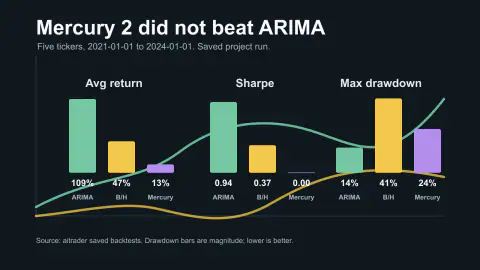
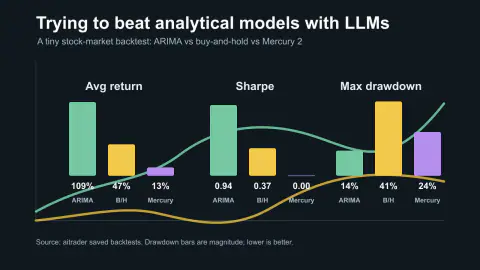
Revise aitrader post framing

diff --git a/src/content/posts/mercury-2-did-not-beat-arima.md b/src/content/posts/mercury-2-did-not-beat-arima.md
@@ -1,22 +1,27 @@
 ---
-title: "Mercury 2 did not beat ARIMA"
-description: "I tried to improve a FINSABER-style ARIMA baseline with a Mercury 2 neuro-symbolic trading agent. The saved run made the old baseline look better."
+title: "Trying to beat analytical models with LLMs in the stock market"
+description: "A trading-agent experiment that started with FINSABER, wrapped ARIMA-style signals in Mercury 2, and ended with the analytical baseline winning."
 published: "2026-08-23T16:00:00.000Z"
+updated: "2026-08-23T16:29:33.000Z"
 tags: [Projects, AI, Trading, Research]
 draft: false
 featured: false
 hero:
   src: "/images/aitrader-mercury-arima/metrics.webp"
-  alt: "Bar chart comparing average return, Sharpe ratio, and drawdown for ARIMA, buy and hold, and Mercury 2"
+  alt: "Bar chart comparing average return, Sharpe ratio, and drawdown for ARIMA, buy and hold, and a Mercury 2 LLM strategy"
   width: 1600
   height: 900
 project: "aitrader"
 disclosure: "AI-Assisted"
 ---
 
-The interesting result is not that the diffusion model won. It did not.
+The stock-market version of “can an LLM reason better?” is nastier than the demo version.
 
-The saved `aitrader` run compared a FINSABER-style ARIMA baseline, buy and hold, and a Mercury 2 neuro-symbolic strategy over five tickers from 2021-01-01 to 2024-01-01: AAPL, MSFT, GOOGL, AMZN, and JPM. The baseline averaged 109.40% total return, 0.937 Sharpe, and 14.04% max drawdown. The Mercury 2 strategy averaged 12.77% total return, 0.003 Sharpe, and 24.41% max drawdown. Buy and hold landed between them on return and below both on drawdown.
+A language model can sound plausible about a chart. A backtest asks a colder question: if the model had made decisions one day at a time, using only information available up to that day, would the portfolio have made more money with less risk than a simpler analytical strategy?
+
+In this experiment, the answer was no.
+
+The saved `aitrader` run compared three strategies over five stocks from 2021-01-01 to 2024-01-01: AAPL, MSFT, GOOGL, AMZN, and JPM. The analytical baseline used ARIMA, a classical time-series forecasting model. The LLM strategy used Mercury 2, a diffusion language model from Inception Labs, but gave it ARIMA-derived state plus technical indicators at each decision step. Buy and hold was there as the boring market-exposure check.
 
 | Strategy | Avg total return | Avg Sharpe | Avg max drawdown |
 | --- | ---: | ---: | ---: |
@@ -28,23 +33,31 @@ So did the project finish? Yes, in the useful sense: it produced a saved histori
 
 This is an engineering note about a historical backtest, not investment advice.
 
-## The paper that started it
+## The pieces
 
-This started with the FINSABER paper, [“Can LLM-based Financial Investing Strategies Outperform the Market in Long Run?”](https://arxiv.org/abs/2505.07078), by Weixian Waylon Li, Hyeonjun Kim, Mihai Cucuringu, and Tiejun Ma. The paper’s claim was exactly the kind of claim that makes a small trading-agent project feel both tempting and dangerous: many LLM investing evaluations look good because they are too narrow, too short, or too vulnerable to survivorship and data-snooping bias.
+ARIMA stands for autoregressive integrated moving average. The plain-English version: it is a statistical model that looks at a time series, tries to separate trend-like structure from noise, and forecasts what comes next from past values and past errors. The implementation here used `statsmodels.tsa.arima.model.ARIMA`; the statsmodels docs describe it as the [basic interface for ARIMA-type models](https://www.statsmodels.org/stable/generated/statsmodels.tsa.arima.model.ARIMA.html).
 
-The authors built [FINSABER](https://github.com/waylonli/FINSABER) to make that harder to hide. The project frames itself as a backtesting framework for traditional technical strategies, machine learning strategies, and LLM agents. Its current docs describe [FINSABER-2](https://waylonli.github.io/FINSABER/) as a package-oriented framework with explicit execution timing, price adjustment, slippage, liquidity, structured results, and LLM cost accounting. The accompanying [FINSABER V2 dataset](https://huggingface.co/datasets/finsaber-team/FINSABER-V2-Data) is broad enough to make a five-stock toy experiment feel a little embarrassed: years of S&P 500 price data, millions of news rows, SEC filings, and metadata.
+An LLM is doing something different. It is not fitting a small, named statistical model to a price series. It is reading a structured prompt and producing a decision. That makes it flexible, but also suspicious. It can invent confidence. It can overreact to stale context. It can sound better than it trades.
 
-That paper made the challenge clear. If LLM strategies often lose their shine under wider, longer, stricter evaluation, maybe the model should not be asked to invent the whole strategy. Give it a mechanical state: ARIMA direction, MACD, RSI, ATR. Let a fast reasoning model decide whether the state is actionable. Keep the deterministic parts deterministic.
+Mercury 2 is the LLM I used. It comes from Inception Labs, which describes Mercury 2 as a [diffusion language model](https://www.inceptionlabs.ai/blog/introducing-mercury-2). Diffusion is more familiar from image generation, but the relevant claim for this project is not aesthetics; it is speed. Inception Labs says Mercury 2 uses parallel refinement instead of standard left-to-right token generation, advertises high throughput, low token cost, long context, tool use, and schema-aligned JSON. The [Inception API](https://www.inceptionlabs.ai/blog/introducing-inception-api) also exposes an OpenAI-compatible interface, so it was straightforward to put Mercury 2 behind a normal trading-agent call.
 
-Mercury 2 was attractive for that role because Inception Labs presents it as a [diffusion language model](https://www.inceptionlabs.ai/blog/introducing-mercury-2), using parallel refinement instead of standard left-to-right token generation. The product post advertises very high throughput, low token cost, a 128K context window, native tool use, and schema-aligned JSON. The [Inception API](https://www.inceptionlabs.ai/blog/introducing-inception-api) also uses an OpenAI-compatible interface, which made it easy to plug into a normal agent loop.
+FINSABER is the research context. The paper [“Can LLM-based Financial Investing Strategies Outperform the Market in Long Run?”](https://arxiv.org/abs/2505.07078), by Weixian Waylon Li, Hyeonjun Kim, Mihai Cucuringu, and Tiejun Ma, argues that many LLM investing evaluations look good because they are too narrow, too short, or too vulnerable to survivorship and data-snooping bias. The authors built [FINSABER](https://github.com/waylonli/FINSABER) to make that harder to hide. Its current docs describe [FINSABER-2](https://waylonli.github.io/FINSABER/) as a package-oriented framework with explicit execution timing, price adjustment, slippage, liquidity, structured results, and LLM cost accounting.
 
-That was the bet: maybe a fast diffusion LLM, fed with ARIMA and technical indicators at every decision point, could improve on a plain ARIMA baseline without becoming a vibes machine in a suit.
+That was the setup. A classical model makes a forecast. A language model reads the forecast plus other indicators. A backtest decides whether the extra reasoning helped or just added theatrical machinery.
+
+## Why try it
+
+The naive version of an LLM trading system is: send the model market context and ask whether to buy, sell, or hold. That is too easy to fool yourself with. The prompt can smuggle in future information. The benchmark can be too small. The agent can look intelligent while mostly reducing exposure.
+
+The less naive version is neuro-symbolic: let deterministic code compute a state, then ask the model to reason over that state. In `aitrader`, the state included ARIMA direction, MACD, RSI, and ATR. The model did not need to hallucinate those indicators from prose. It received them as structured inputs and returned a trading decision.
+
+That was my attempt to outdo the sober FINSABER lesson instead of denying it. If LLM-only strategies degrade under stricter evaluation, maybe an LLM constrained by analytical signals could still add something.
 
 ## What I built
 
 The project became a neuro-symbolic trading adapter around FINSABER. The strategy gathered historical price data up to the current date, calculated heuristic state, sent that state to Mercury 2, and converted the model decision into buy, sell, or hold actions. The baseline script used `yfinance` to download historical prices; the library documents itself as a way to [download market data from Yahoo Finance’s API](https://ranaroussi.github.io/yfinance/), and the script pulled a 2018-01-01 to 2024-01-01 window so ARIMA had training history before the 2021-01-01 test start.
 
-The ARIMA piece used `statsmodels.tsa.arima.model.ARIMA`; the official statsmodels docs describe that class as the [basic interface for ARIMA-type models](https://www.statsmodels.org/stable/generated/statsmodels.tsa.arima.model.ARIMA.html). In the committed heuristic code, the model is fit on the rolling close-price history and forecasts one step ahead. The key detail is in the code: [_calculate_arima fits inside the decision step](/blog/evidence/aitrader/rolling-arima-snippet.py.txt).
+In the committed heuristic code, ARIMA is fit on the rolling close-price history and forecasts one step ahead. The key detail is in the code: [_calculate_arima fits inside the decision step](/blog/evidence/aitrader/rolling-arima-snippet.py.txt).
 
 That matters because I had been describing the experiment as “precomputed ARIMA at each step.” The saved code does not show a committed precomputed ARIMA cache. It computes ARIMA-derived state at each step, but it does so by fitting on the available rolling window. That is still time-correct in intent, but it is not the same operational design. “Precomputed” would mean a feature table generated once under strict no-look-ahead rules, then reused by the Mercury strategy and the ARIMA ablation. This repo did not get there.
 
